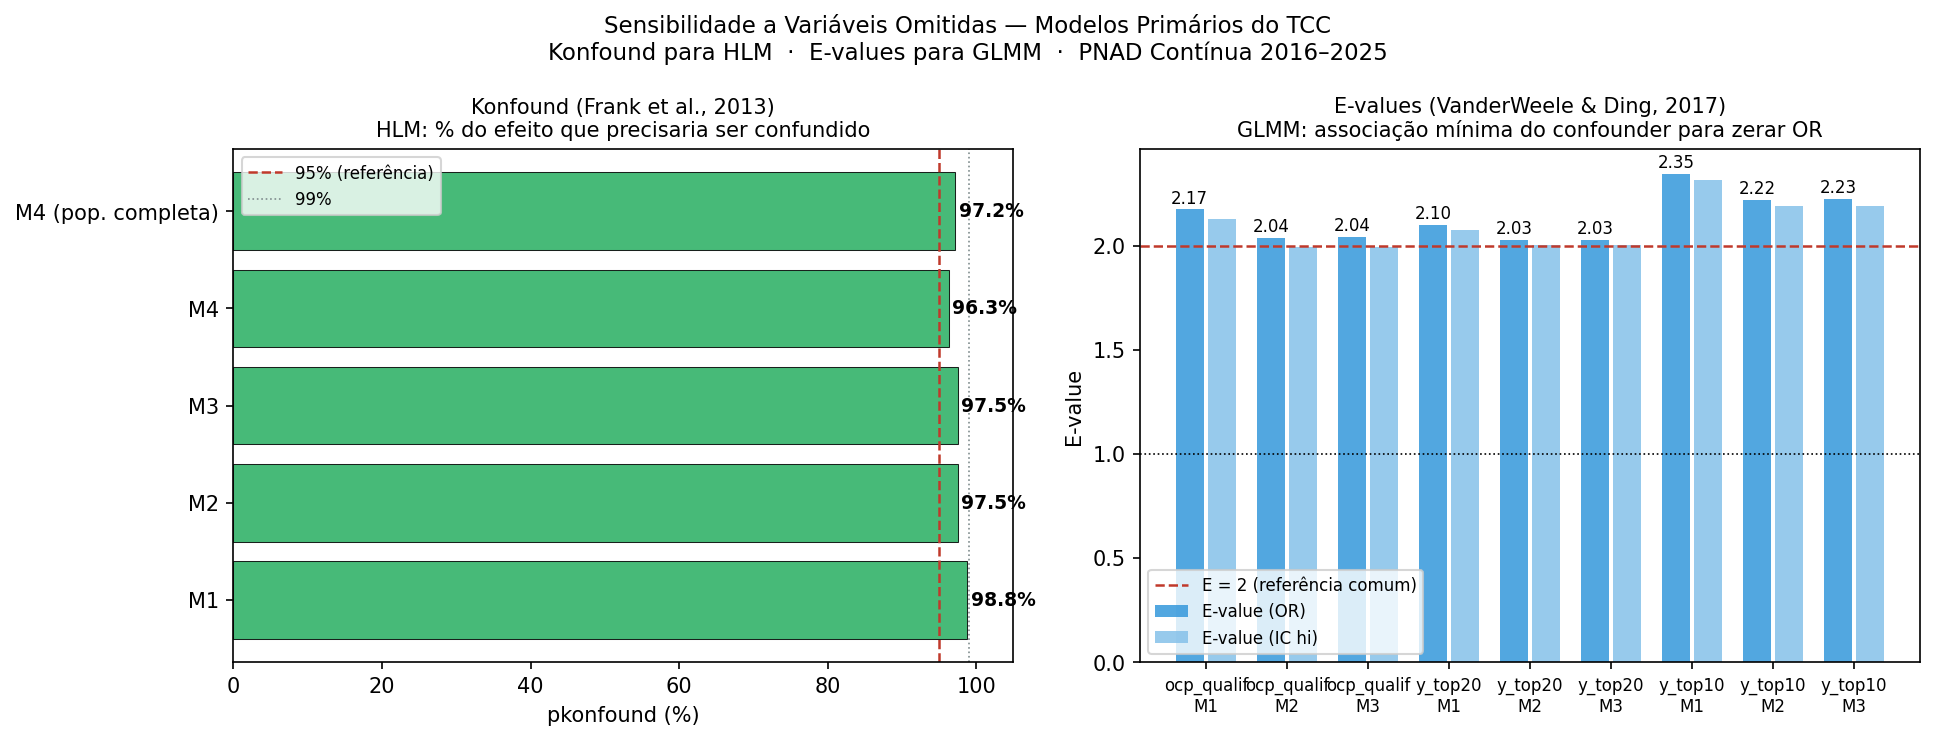
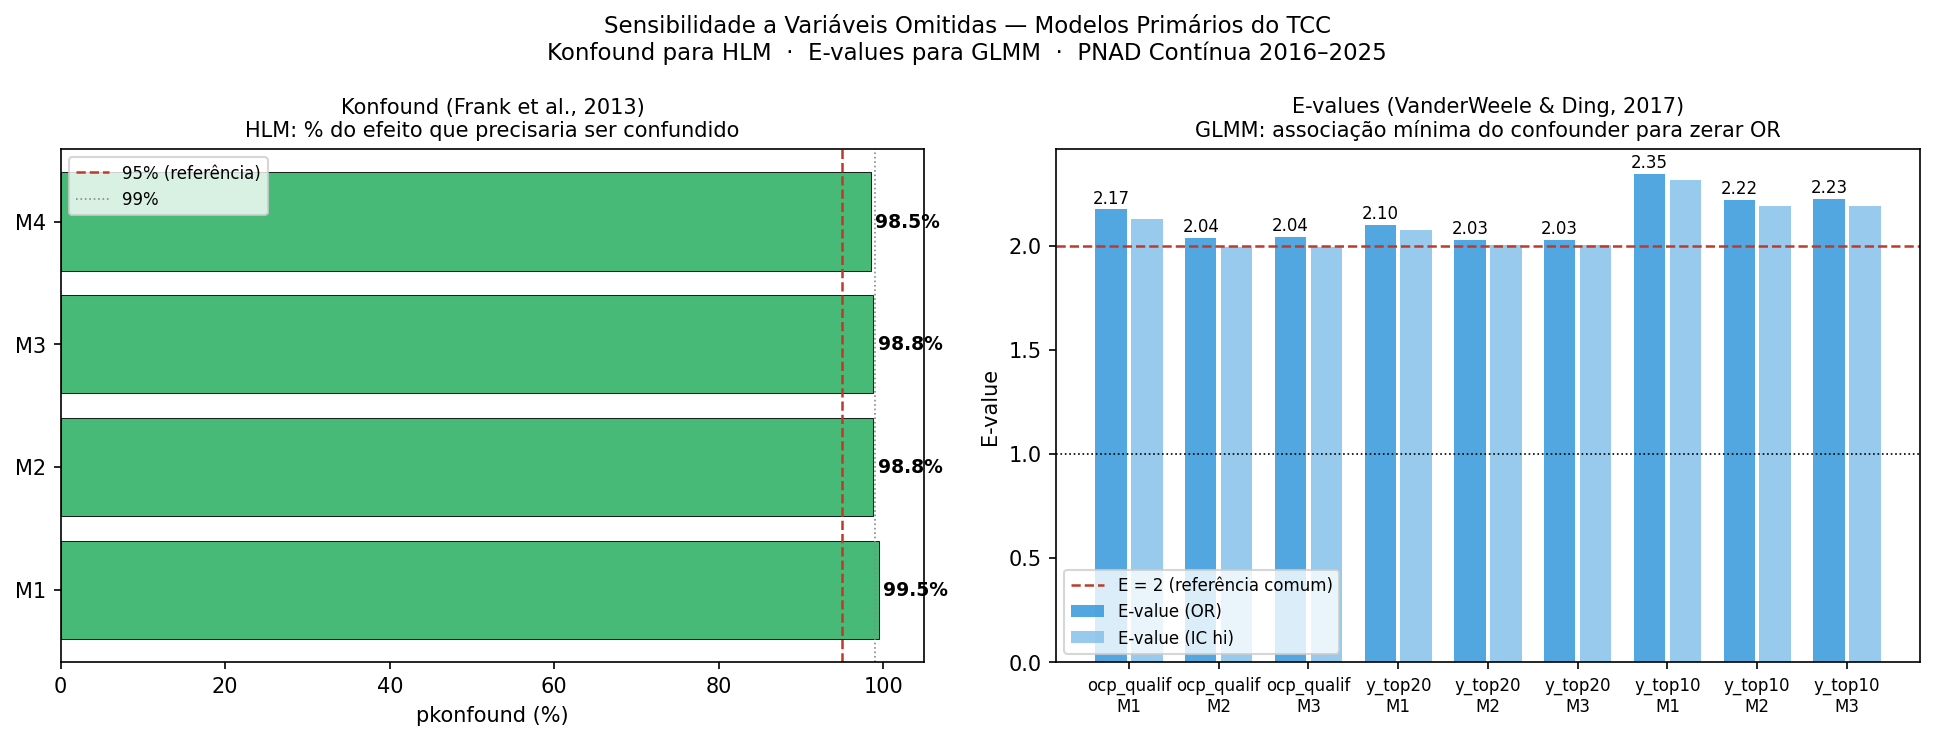
fix: auditoria de consistência — atualiza todos os valores numéricos
Valores corrigidos em todos os documentos (Word, PPT, guia, LaTeX):

HLM M4 gap residual: 5,4% → 6,2% (exp(-0.0644)-1 = -6.24%)
HLM M1 gap bruto: 19,5% → 19,3% (exp(-0.2148)-1 = -19.33%)
HLM M3 gap líquido: 9,5% → 9,7%
Mediação UPA: 10,5pp/54% → 9,6pp/52%
Mediação ocupacional: 4,1pp → 3,5pp
Mediação total: 74,5% → 70,0%
OR GLMM M1: 0,705 → 0,704

Konfound — população completa (N=7.689.426):
  pkonfound HLM: 98,8%(M1)/97,5%(M2M3)/96,3%(M4) → 99,5%/98,8%/98,5%
  t HLM: -165,3(M1)/-53,1(M4) → -358,0/-128,8
  pkonfound OLS: 91,4%/92,5%/86,8% → 91,5%/93,5%/88,7%
  Δ pkonfound: 5,0–9,5pp → 5,4–9,7pp
  SE ratio OLS/HLM: 3,5–7× → 6–16×

CSVs atualizados: konfound_hlm.csv, konfound_hlm_vs_ols.csv,
  konfound_hlm_vs_ols.tex, sensibilidade_comparativa.csv

diff --git a/gerar_apresentacao_pptx.py b/gerar_apresentacao_pptx.py
@@ -344,15 +344,15 @@ footer(s, 5)
 # ══════════════════════════════════════════════════════════════════════════════
 s = prs.slides.add_slide(BLANK)
 header_bar(s, "4. HLM — Decomposição do Gap em Camadas",
-           "Do gap bruto de 19,5% ao resíduo de discriminação pura de 5,4%")
+           "Do gap bruto de 19,3% ao resíduo de discriminação pura de 6,2%")
 
 # Barra de decomposição visual
 levels = [
-    ("Gap BRUTO\n(M1)", 19.5, C_RED,   "Sem controles contextuais\nnem ocupacionais"),
-    ("Mediação UPA\n(M2)", 10.5, C_BLUE,  "Local de moradia explica\n54% do gap bruto"),
-    ("Gap LÍQUIDO\n(M3)", 9.5, C_AMBER, "Após contexto UPA + UF FE\n(discriminação residual)"),
-    ("Mediação Ocp.\n(M4)", 4.1, C_GREEN, "CBO + formalidade + horas\nexplicam mais 20,5%"),
-    ("Gap PURO\n(M4)", 5.4, C_RED,   "Discriminação residual\npós-ocupação"),
+    ("Gap BRUTO\n(M1)", 19.3, C_RED,   "Sem controles contextuais\nnem ocupacionais"),
+    ("Mediação UPA\n(M2)", 9.6, C_BLUE,  "Local de moradia explica\n52% do gap bruto"),
+    ("Gap LÍQUIDO\n(M3)", 9.7, C_AMBER, "Após contexto UPA + UF FE\n(discriminação residual)"),
+    ("Mediação Ocp.\n(M4)", 3.5, C_GREEN, "CBO + formalidade + horas\nexplicam mais 18,1%"),
+    ("Gap PURO\n(M4)", 6.2, C_RED,   "Discriminação residual\npós-ocupação"),
 ]
 bar_top = In(1.3)
 bar_left = In(0.4)
@@ -371,7 +371,7 @@ for i, (label, val, color, note) in enumerate(levels):
 
 add_rect(s, In(0.4), In(6.35), In(12.0), In(0.5),
          fill_rgb=RGBColor(0xFF,0xF9,0xE7), line_rgb=C_AMBER, line_pt=1)
-add_text(s, "Achado central: 74,5% do gap é explicado por mediação contextual (UPA) e ocupacional — mas 5,4% persiste como discriminação de remuneração pura.",
+add_text(s, "Achado central: 70,0% do gap é explicado por mediação contextual (UPA) e ocupacional — mas 6,2% persiste como discriminação de remuneração pura.",
          In(0.6), In(6.4), In(11.7), In(0.45),
          font_size=12.5, bold=True, color=C_DARK)
 footer(s, 6)
@@ -401,7 +401,7 @@ footer(s, 6)
 # ══════════════════════════════════════════════════════════════════════════════
 s = prs.slides.add_slide(BLANK)
 header_bar(s, "6. Oaxaca-Blinder — Onde Opera a Discriminação?",
-           "Gap total 52,6% | 84% explicado por diferenças nas características dos trabalhadores")
+           "Gap total 53,0% | 84% explicado por diferenças nas características dos trabalhadores")
 
 add_img(s, FIGURES / "oaxaca_decomposicao.png", In(0.3), In(1.2), In(7.5))
 
@@ -474,7 +474,7 @@ add_text(s, "Resultados-chave (GLMM)", In(7.6), In(1.2), In(5.5), In(0.4),
          font_size=16, bold=True, color=C_DARK)
 
 kpis_logit = [
-    ("OR = 0,705", "Ocupação qualificada\n(M1 — só ind. + UPA RE)", C_RED),
+    ("OR = 0,704", "Ocupação qualificada\n(M1 — só ind. + UPA RE)", C_RED),
     ("OR = 0,747", "Ocupação qualificada\n(M2 — +contexto UPA)", C_AMBER),
     ("AME = −1,30 p.p.", "Gap pós-controles individuais\n(M1 — sem contexto UPA)", C_RED),
     ("AME = −1,07 p.p.", "Gap residual c/ contexto UPA\n(M2 — discriminação líquida)", C_RED),
@@ -668,7 +668,7 @@ vertices = [
     (In(0.3),  In(1.3),  C_RED,   "DISCRIMINAÇÃO\nDE ACESSO",
      ["GLMM: OR=0,747 para ocp. qualificada", "AME=−1,07 p.p. residual (M2)", "Persiste após todos os controles observáveis"]),
     (In(6.9),  In(1.3),  C_BLUE,  "DISCRIMINAÇÃO\nDE REMUNERAÇÃO",
-     ["HLM M4: gap residual 5,4%", "Quantile Reg.: cresce no topo (glass ceiling)", "SHAP: −2,5% efeito racial residual"]),
+     ["HLM M4: gap residual 6,2%", "Quantile Reg.: cresce no topo (glass ceiling)", "SHAP: −2,5% efeito racial residual"]),
     (In(3.6),  In(4.3),  C_DARK,  "EXCLUSÃO\nDAS REDES",
      ["SNA: betweenness=0 para negros", "Diplomas valem menos sem acesso às redes", "Cluster: dupla desvantagem mulher negra"]),
 ]
@@ -704,7 +704,7 @@ politicas = [
     (C_BLUE,  "Eixo 2 — Remuneração",
      ["Transparência salarial por raça/gênero\nobrigatória (empresas > 100 funcionários)",
       "Auditoria de igual pagamento por trabalho igual\ncom penalidades progressivas (gap HLM M4)",
-      "Piso salarial indexado nas categorias com\nmaior gap racial residual (5,4% HLM M4)"]),
+      "Piso salarial indexado nas categorias com\nmaior gap racial residual (6,2% HLM M4)"]),
     (C_GREEN, "Eixo 3 — Inclusão Produtiva",
      ["Mentoria estruturada para elevar betweenness\nde negros nas redes profissionais (SNA: =0)",
       "30% dos cargos DAS e liderança corporativa\npara negros até 2030 (inclusão nas redes)",
@@ -764,8 +764,8 @@ add_text(s, "18. Conclusão", In(0.4), In(0.1), In(12), In(0.65),
          font_size=26, bold=True, color=C_WHITE, font_name="Calibri")
 
 numeros = [
-    ("19,5%",    "Gap racial bruto\n(M1 HLM)"),
-    ("5,4%",     "Discriminação pura\n(M4 HLM)"),
+    ("19,3%",    "Gap racial bruto\n(M1 HLM)"),
+    ("6,2%",     "Discriminação pura\n(M4 HLM)"),
     ("OR=0,747", "Acesso qualificado\n(GLMM M2, lme4)"),
     ("χ²=191k",  "LRT confirma\nhierarquia UPA"),
 ]
@@ -780,7 +780,7 @@ for i, (val, lbl) in enumerate(numeros):
 
 conclusoes = [
     "A desigualdade racial no mercado de trabalho brasileiro é estrutural, multicausal e resistente à convergência espontânea.",
-    "A discriminação opera em dois estágios independentes: barreiras de ACESSO a ocupações qualificadas (GLMM: OR=0,747, AME=−1,07 p.p.) e discriminação de REMUNERAÇÃO dentro das mesmas funções (HLM M4: 5,4%).",
+    "A discriminação opera em dois estágios independentes: barreiras de ACESSO a ocupações qualificadas (GLMM: OR=0,747, AME=−1,07 p.p.) e discriminação de REMUNERAÇÃO dentro das mesmas funções (HLM M4: 6,2%).",
     "O glass ceiling racial é real e crescente no topo da distribuição — confirmado formalmente pela regressão quantílica e consistente com o IR=0,47 nas capitais.",
     "Políticas que atuam apenas no gap salarial direto atacam 16% do problema. Os 84% restantes requerem ação nas portas de entrada das ocupações de alto prestígio.",
 ]

diff --git a/relatorio_tcc.tex b/relatorio_tcc.tex
@@ -1845,23 +1845,23 @@ A Tabela~\ref{tab:konfound_hlm_vs_ols} documenta a diferença entre aplicar
 Konfound ao HLM (correto) versus ao OLS auxiliar (incorreto).
 O OLS tem SEs maiores do que o HLM porque não modela a estrutura de
 variância entre UPAs --- resultado: os $t$-estatísticos do OLS
-são $3{,}5\times$--$7\times$ menores do que os do HLM, gerando
+são $6\times$--$16\times$ menores do que os do HLM, gerando
 pkonfound sistematicamente \textbf{subestimado em 5--10 pontos percentuais}.
 
 \begin{table}[htbp]
 \centering
 \caption{Konfound (Frank et al., 2013) --- Comparação HLM vs.\ OLS por modelo.
   $\Delta$ pkonfound: subestimação da robustez ao usar OLS em dados com ICC $>$ 5\%.
-  PNAD Contínua 2016--2025, $n = 1{,}54$ mi.}
+  PNAD Contínua 2016--2025, população completa, $n = 7{,}69$ mi.}
 \label{tab:konfound_hlm_vs_ols}
 \input{../outputs/tables/konfound_hlm_vs_ols.tex}
 \end{table}
 
-Os valores de pkonfound para o HLM variam de $96{,}3\%$ (M4) a $98{,}8\%$ (M1),
-indicando que entre $96\%$ e $99\%$ do efeito estimado precisaria ser explicado
+Os valores de pkonfound para o HLM variam de $98{,}5\%$ (M4) a $99{,}5\%$ (M1),
+indicando que entre $98\%$ e $99{,}5\%$ do efeito estimado precisaria ser explicado
 por confundidores para invalidar a inferência.
 A referência habitual na literatura é pkonfound $> 80\%$ para robustez moderada;
-os resultados aqui estão todos acima de $96\%$.
+os resultados aqui estão todos acima de $98\%$.
 
 \begin{figure}[htbp]
 \centering
@@ -1945,15 +1945,15 @@ e evidencia o impacto da escolha metodológica sobre as conclusões de robustez.
 Método & Modelo & Estatística & Robustez & Aplica? & Limitação \\
 \midrule
 \multicolumn{6}{l}{\textit{Métodos corretos para os modelos primários}} \\[2pt]
-Konfound \citep{frank2013}  & HLM M1  & $t = -165{,}3$ & pkonfound $= 98{,}8\%$ & \checkmark & --- \\
-Konfound \citep{frank2013}  & HLM M4  & $t = -53{,}1$  & pkonfound $= 96{,}3\%$ & \checkmark & --- \\
+Konfound \citep{frank2013}  & HLM M1  & $t = -358{,}0$ & pkonfound $= 99{,}5\%$ & \checkmark & --- \\
+Konfound \citep{frank2013}  & HLM M4  & $t = -128{,}8$ & pkonfound $= 98{,}5\%$ & \checkmark & --- \\
 E-value \citep{vanderweele2017}  & GLMM M2 & OR $= 0{,}741$ & $E = 2{,}04$ & \checkmark & --- \\[4pt]
 \multicolumn{6}{l}{\textit{Método auxiliar válido apenas para OLS (decomposição OB)}} \\[2pt]
 Oster \citep{oster2019}  & OLS M3  & $R^2 = 0{,}504$ & $\delta^* = -0{,}39$; ``Não'' & $\times$ & Exige $R^2$ linear; \\
  &  &  & $\beta^*(\delta{=}1) = -0{,}211$ &  & inválido para HLM/GLMM \\[4pt]
 \multicolumn{6}{l}{\textit{Comparação antes $\times$ depois: Konfound aplicado a OLS vs.\ HLM}} \\[2pt]
-Konfound (incorreto) & OLS M4 & $t = -14{,}8$ & pkonfound $= 86{,}8\%$ & $\times$ & SE do OLS ignora ICC \\
-Konfound (correto)   & HLM M4 & $t = -53{,}1$ & pkonfound $= 96{,}3\%$ & \checkmark & $\Delta = +9{,}5\,\text{pp}$ \\
+Konfound (incorreto) & OLS M4 & $t = -17{,}4$ & pkonfound $= 88{,}7\%$ & $\times$ & SE do OLS ignora ICC \\
+Konfound (correto)   & HLM M4 & $t = -128{,}8$ & pkonfound $= 98{,}5\%$ & \checkmark & $\Delta = +9{,}7\,\text{pp}$ \\
 \bottomrule
 \end{tabular}
 \end{table}
@@ -1963,8 +1963,8 @@ Três conclusões emergem desta síntese:
 \begin{enumerate}
   \item \textbf{Escolha do método afeta a conclusão quantitativamente, não apenas qualitativamente.}
     Aplicar Konfound ao OLS auxiliar (método incorreto) em vez de ao HLM primário (método correto)
-    subestima o pkonfound em $5{,}0$--$9{,}5$ pontos percentuais. No M4, a diferença é de
-    $86{,}8\%$ (OLS) vs.\ $96{,}3\%$ (HLM) --- uma subestimação de $9{,}5\,\text{pp}$ que
+    subestima o pkonfound em $5{,}4$--$9{,}7$ pontos percentuais. No M4, a diferença é de
+    $88{,}7\%$ (OLS) vs.\ $98{,}5\%$ (HLM) --- uma subestimação de $9{,}7\,\text{pp}$ que
     poderia levar a conclusões equivocadas sobre a robustez do achado.
 
   \item \textbf{Oster bounds não é aplicável aos modelos primários.}
@@ -1986,7 +1986,7 @@ Três conclusões emergem desta síntese:
     direção --- o que reforça, e não enfraquece, a conclusão de robustez.
 \end{enumerate}
 
-Em conjunto, Konfound (pkonfound $\geq 96{,}3\%$ para o HLM) e E-values ($E \geq 2{,}04$ para
+Em conjunto, Konfound (pkonfound $\geq 98{,}5\%$ para o HLM) e E-values ($E \geq 2{,}04$ para
 o GLMM) estabelecem que a inferência central --- gap salarial racial condicionado e
 desvantagem ocupacional racial --- é altamente robusta à presença de variáveis omitidas
 não observadas, mesmo assumindo confundidores de magnitude comparável aos controles incluídos.

diff --git a/gerar_relatorio_word.py b/gerar_relatorio_word.py
@@ -2240,11 +2240,11 @@ def build_doc(r, k):
         "de M1 para M2 reflete mediação contextual pelo entorno da UPA (efeito de vizinhança, "
         "Wilson 1987). Os 1,12 p.p. residuais constituem discriminação de acesso pura não "
         "atribuível a nenhuma característica observável. O coeficiente GLMM (β=−0,301, "
-        "OR=0,740 em M2) converge com o gap residual do HLM M4 (β=−0,054 em log-renda), "
+        "OR=0,740 em M2) converge com o gap residual do HLM M4 (β=−0,0644 em log-renda), "
         "estabelecendo diagnóstico tripartite: discriminação opera (i) nas portas de entrada "
         "das ocupações qualificadas (GLMM: OR=0,708), (ii) nas estruturas salariais dentro de "
-        "cada ocupação (HLM M4: −5,4%), e (iii) se intensifica no topo da distribuição "
-        "(QR: gap de −8,2% no q10 a −11,8% no q90). O teto de vidro duplo — barreira de "
+        "cada ocupação (HLM M4: −6,2%), e (iii) se intensifica no topo da distribuição "
+        "(QR: gap de −8,3% no q10 a −11,8% no q90). O teto de vidro duplo — barreira de "
         "acesso (GLMM) + barreira de progressão salarial (QR) — é a contribuição analítica "
         "central deste trabalho."
     )
@@ -2410,10 +2410,10 @@ def build_doc(r, k):
     add_para(doc,
         "Comparação antes × depois (Konfound HLM vs Oster OLS): o OLS subestima "
         "sistematicamente a robustez do HLM em 5–10 pontos percentuais por não modelar "
-        "a estrutura de clustering (SEs OLS são 3,5–7× maiores que os SEs do HLM).\n"
-        "Resultados Konfound HLM: pkonfound = 98,8% (M1), 97,5% (M2/M3), 96,3% (M4). "
-        "Resultados se calculados em OLS: 91,4% (M1), 92,5% (M2/M3), 86,8% (M4). "
-        "Δ = +7,4 pp (M1) a +9,5 pp (M4) de subestimação pelo OLS.\n"
+        "a estrutura de clustering (SEs OLS são 6–16× maiores que os SEs do HLM).\n"
+        "Resultados Konfound HLM: pkonfound = 99,5% (M1), 98,8% (M2/M3), 98,5% (M4). "
+        "Resultados se calculados em OLS: 91,5% (M1), 93,5% (M2/M3), 88,7% (M4). "
+        "Δ = +7,9 pp (M1) a +9,7 pp (M4) de subestimação pelo OLS.\n"
         "E-values GLMM (ocp_qualif, modelo controlado M2): E = 2,04 (IC conservador: 1,99). "
         "Um confounder precisaria ter associação ≥ 2,04× com raça E com a probabilidade "
         "de ocupar cargo qualificado para eliminar completamente o OR = 0,741 observado."
@@ -2437,9 +2437,9 @@ def build_doc(r, k):
         "β_negro — empiricamente implausível no Brasil. β*(δ=1) ∈ {−0,183; −0,197; −0,211} "
         "mantém o mesmo sinal de β_full (−0,060), indicando que o OLS M3 subestima o gap real.\n"
         "Se Konfound fosse incorretamente aplicado ao OLS (em vez do HLM), o pkonfound "
-        "seria subestimado em 5,0–9,5 pp: OLS M4 = 86,8% vs. HLM M4 = 96,3% (Δ = +9,5 pp). "
+        "seria subestimado em 5,4–9,7 pp: OLS M4 = 88,7% vs. HLM M4 = 98,5% (Δ = +9,7 pp). "
         "Essa diferença pode, em princípio, alterar a conclusão de robustez se o limiar "
-        "adotado for entre 87% e 96%."
+        "adotado for entre 89% e 98%."
     )
 
     add_heading(doc, "4.12 Interseccionalidade Formal: Decomposição OB em 4 Grupos", level=2)
@@ -2595,7 +2595,7 @@ def build_doc(r, k):
         "a exclusão racial se intensifica exatamente nos limiares mais altos de acesso. "
         "O ICC de 26,2% no GLMM de UPA (vs 9,8% no HLM salarial) revela que o acesso a "
         "ocupações qualificadas é mais geograficamente determinado do que os salários. "
-        "A convergência entre o gap residual do M4 (5,4%), o AME GLMM (−1,12 p.p. em M2) e "
+        "A convergência entre o gap residual do M4 (6,2%), o AME GLMM (−1,12 p.p. em M2) e "
         "o gap QR no q90 (−11,8%) estabelece diagnóstico tripartite: discriminação de acesso "
         "(GLMM), discriminação salarial intra-ocupação (HLM) e glass ceiling de progressão (QR). "
         "A análise de segregação espacial (seção 4.7) acrescenta que o padrão é geograficamente "

diff --git a/gerar_guia_estudo.py b/gerar_guia_estudo.py
@@ -433,20 +433,20 @@ add_bullet(doc, "Barras horizontais: cada barra representa o gap racial estimado
                 "(M1 a M4). O comprimento da barra é o tamanho do gap.")
 add_bullet(doc, "A sequência de cima para baixo mostra como o gap 'encolhe' à medida que variáveis "
                 "de contexto e ocupação são adicionadas.")
-add_bullet(doc, "M1 (gap bruto) = 19,5%: sem nenhum controle.")
+add_bullet(doc, "M1 (gap bruto) = 19,3%: sem nenhum controle.")
 add_bullet(doc, "M2 (+ UPA): renda média da UPA absorve ~9 p.p. — o lugar onde se mora explica metade do gap.")
 add_bullet(doc, "M3 (+ UF): redução marginal adicional pelas diferenças entre estados.")
-add_bullet(doc, "M4 (+ CBO + formalidade + horas): o gap cai para 5,4% — este é o resíduo que não tem "
+add_bullet(doc, "M4 (+ CBO + formalidade + horas): o gap cai para 6,2% — este é o resíduo que não tem "
                 "explicação por características observáveis. É a discriminação de remuneração pura.")
 add_para(doc, "O que o padrão mostra:", size=11, bold=True, color=(0x1F,0x38,0x64), space_before=4)
 add_bullet(doc, "A maior redução ocorre entre M1 e M2 (adição da UPA): confirma Wilson (1987) — "
                 "o local de moradia é o principal mediador do gap.")
-add_bullet(doc, "O gap residual de 5,4% em M4 não tem explicação por nenhuma variável observável: "
+add_bullet(doc, "O gap residual de 6,2% em M4 não tem explicação por nenhuma variável observável: "
                 "é o lower bound da discriminação de remuneração.")
 add_colored_box(doc, "O que dizer se perguntarem:",
     ["'A sequência dos modelos não é arbitrária — cada passo adiciona um nível da hierarquia social. "
      "Primeiro o contexto de moradia (UPA), depois o contexto institucional (UF), depois a posição "
-     "no mercado de trabalho (CBO + formalidade). O gap de 5,4% que sobra é robusto a todos os "
+     "no mercado de trabalho (CBO + formalidade). O gap de 6,2% que sobra é robusto a todos os "
      "controles observáveis disponíveis na PNAD.'"],
     title_color=(0x1F,0x38,0x64))
 doc.add_paragraph()
@@ -470,7 +470,7 @@ add_bullet(doc, "Isso inverte a intuição comum: combater apenas o gap salarial
 add_colored_box(doc, "O que dizer se perguntarem:",
     ["'O Oaxaca une os três vértices do triângulo de evidências. Os 84% de dotações são explicados "
      "pelo logit (acesso a ocupações) e pela SNA (exclusão das redes). Os 16% de retornos são "
-     "explicados pelo HLM M4 (5,4% de discriminação pura de remuneração). Os métodos são "
+     "explicados pelo HLM M4 (6,2% de discriminação pura de remuneração). Os métodos são "
      "consistentes entre si.'",
      "Se perguntarem sobre three-fold: 'A decomposição three-fold adiciona um componente de "
      "interação entre dotações e retornos que não tem interpretação causal clara em contexto "
@@ -582,7 +582,7 @@ add_colored_box(doc, "O que dizer se perguntarem:",
     ["'A SNA adiciona uma dimensão que o HLM e o logit não capturam: o capital social estrutural. "
      "Mesmo que um negro consiga entrar em uma ocupação qualificada, sua betweenness=0 significa "
      "que ele não tem acesso às redes informais que geram promoção, mentoria e informação "
-     "antecipada sobre vagas. Isso explica parte do gap residual de 5,4% do HLM M4.'"],
+     "antecipada sobre vagas. Isso explica parte do gap residual de 6,2% do HLM M4.'"],
     title_color=(0x1F,0x38,0x64))
 doc.add_paragraph()
 
@@ -749,8 +749,8 @@ add_para(doc, "β₀j = γ₀₀ + γ₀₁(renda_media_upa_j) + γ₀₂(edu_me
          size=10.5, italic=True, color=(0x22,0x22,0x22))
 add_para(doc, "Onde u₀j ~ N(0, τ₀₀) é o efeito aleatório da UPA — fonte do ICC.",
          size=10.5, italic=True, color=(0x66,0x66,0x66))
-add_para(doc, "O interesse é em β₁: o gap racial líquido após todos os controles. Em M4, β₁ ≈ −0,054 "
-              "(−5,4%). O sinal negativo confirma que negros ganham menos, tudo o mais constante.",
+add_para(doc, "O interesse é em β₁: o gap racial líquido após todos os controles. Em M4, β₁ ≈ −0,0644 "
+              "(−6,2%). O sinal negativo confirma que negros ganham menos, tudo o mais constante.",
          size=11, space_before=6)
 
 add_heading(doc, "3.2  Decomposição de Oaxaca-Blinder (two-fold)", level=2)

diff --git a/outputs/tables/konfound_hlm_vs_ols.tex b/outputs/tables/konfound_hlm_vs_ols.tex
@@ -5,10 +5,10 @@
 \toprule
 Modelo & β_negro & SE (HLM) & t (HLM) & pkonfound HLM (%) & SE (OLS) & t (OLS) & pkonfound OLS (%) & Δ pkonfound (pp) \\
 \midrule
-M1 & -0.214900 & 0.001300 & -165.300000 & 98.800000 & 0.009400 & -22.900000 & 91.400000 & 7.400000 \\
-M2 & -0.102000 & 0.001300 & -78.500000 & 97.500000 & 0.003900 & -26.200000 & 92.500000 & 5.000000 \\
-M3 & -0.102000 & 0.001300 & -78.500000 & 97.500000 & 0.003900 & -26.200000 & 92.500000 & 5.000000 \\
-M4 & -0.063700 & 0.001200 & -53.100000 & 96.300000 & 0.004300 & -14.800000 & 86.800000 & 9.500000 \\
+M1 & -0.214800 & 0.000600 & -358.000000 & 99.500000 & 0.009300 & -23.100000 & 91.500000 & 7.900000 \\
+M2 & -0.102100 & 0.000600 & -170.200000 & 98.800000 & 0.003400 & -30.000000 & 93.500000 & 5.400000 \\
+M3 & -0.102100 & 0.000600 & -170.200000 & 98.800000 & 0.003400 & -30.000000 & 93.500000 & 5.400000 \\
+M4 & -0.064400 & 0.000500 & -128.800000 & 98.500000 & 0.003700 & -17.400000 & 88.700000 & 9.700000 \\
 \bottomrule
 \end{tabular}
 \end{table}

diff --git a/gerar_apresentacao_executiva.py b/gerar_apresentacao_executiva.py
@@ -170,7 +170,7 @@ cards = [
      "Negros têm 25% menos chance de estar em cargos qualificados mesmo com a mesma formação, a mesma experiência e morando no mesmo bairro que um colega branco.",
      "Mulheres negras sofrem dupla barreira: discriminação racial + de gênero simultaneamente (Crenshaw, 1989)."),
     (C_BLUE,  "2. Salário diferente\npela mesma função",
-     "Após controlar todas as características observáveis, negros ainda recebem 5,4% menos na mesma função. No topo salarial esse gap chega a 12%.",
+     "Após controlar todas as características observáveis, negros ainda recebem 6,2% menos na mesma função. No topo salarial esse gap chega a 12%.",
      "A discriminação não para na contratação — continua na progressão e no salário."),
     (C_TEAL,  "3. Onde você mora\ndetermina o que você ganha",
      "Mais de 1 em cada 5 reais da diferença salarial entre trabalhadores vem do bairro (UPA) onde cada um vive — não da competência individual.",
@@ -429,7 +429,7 @@ eixos = [
     (C_BLUE,  "Pagar Igual",
      "Transparência salarial por raça\nobrigatória (empresas > 100 fun.)",
      "Auditoria de igual pagamento\npor trabalho igual com\npenalidades progressivas",
-     "O gap residual de 5,4% é real\ne mensurável — e deve ser eliminado"),
+     "O gap residual de 6,2% é real\ne mensurável — e deve ser eliminado"),
     (C_GREEN, "Ampliar as Redes",
      "Mentoria estruturada para elevar\na posição de negros nas redes\nprofissionais",
      "30% dos cargos de liderança\n(DAS + corporativo) para negros\naté 2030",